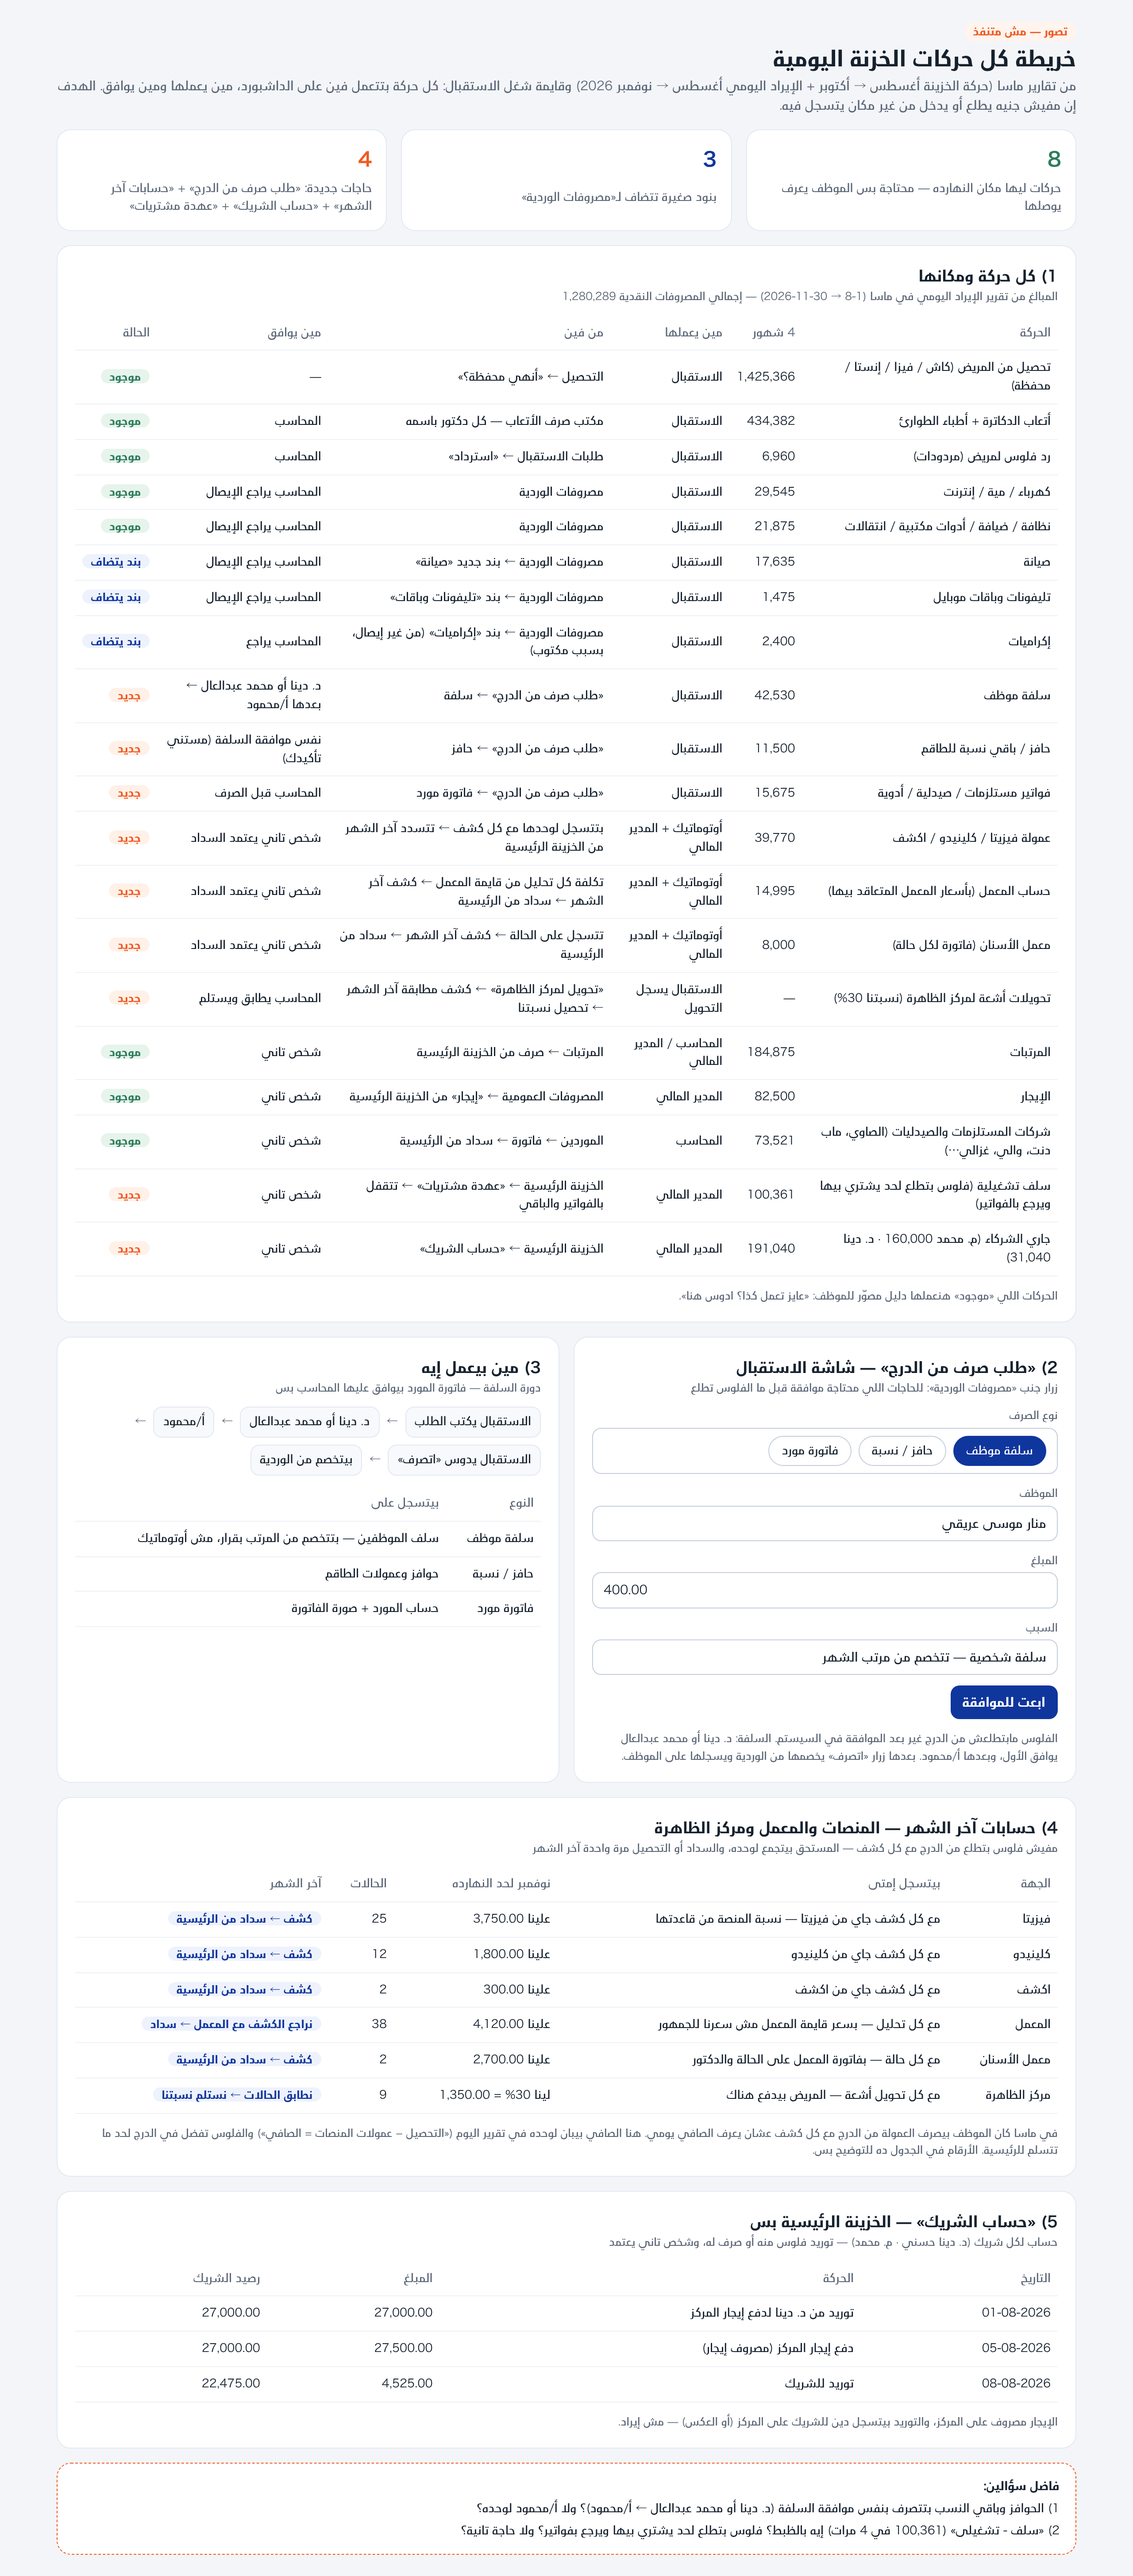
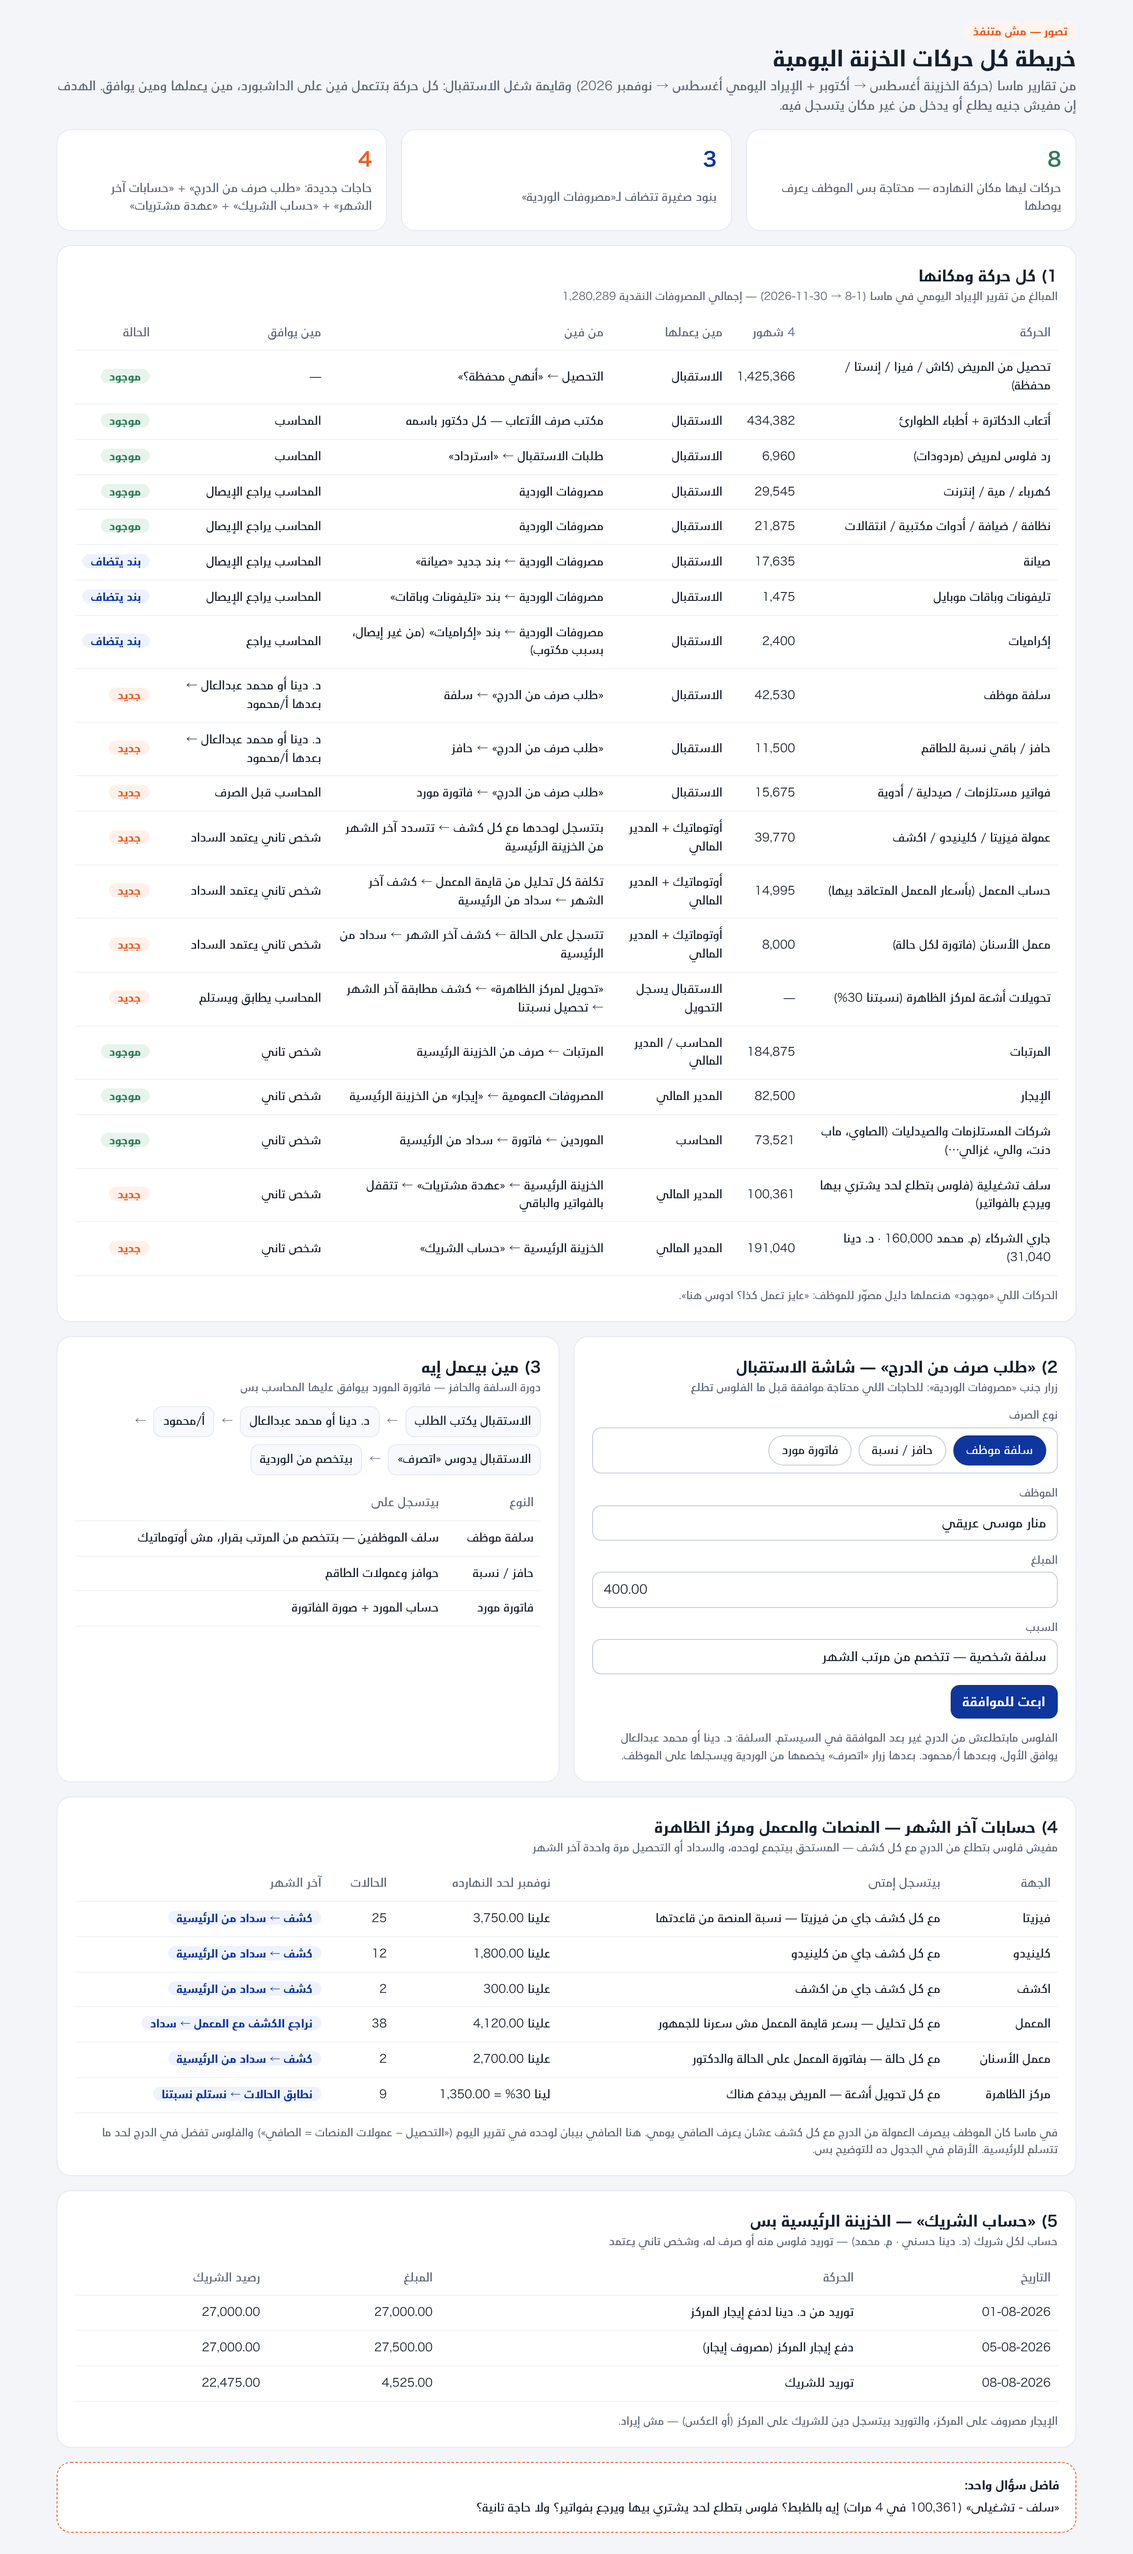
Mockup: incentives follow the advance approval chain (owner)
Claude-Session: https://claude.ai/code/session_01UqVZHWa751JciR5NzZebwW

diff --git a/docs/ui-references/mockups/daily-movements-map.html b/docs/ui-references/mockups/daily-movements-map.html
@@ -50,7 +50,7 @@ table{width:100%;border-collapse:collapse;font-size:13px}th,td{text-align:right;
   <tr><td>تليفونات وباقات موبايل</td><td class="num">1,475</td><td>الاستقبال</td><td>مصروفات الوردية ← بند «تليفونات وباقات»</td><td>المحاسب يراجع الإيصال</td><td><span class="st small">بند يتضاف</span></td></tr>
   <tr><td>إكراميات</td><td class="num">2,400</td><td>الاستقبال</td><td>مصروفات الوردية ← بند «إكراميات» (من غير إيصال، بسبب مكتوب)</td><td>المحاسب يراجع</td><td><span class="st small">بند يتضاف</span></td></tr>
   <tr><td>سلفة موظف</td><td class="num">42,530</td><td>الاستقبال</td><td>«طلب صرف من الدرج» ← سلفة</td><td>د. دينا أو محمد عبدالعال ← بعدها أ/محمود</td><td><span class="st new">جديد</span></td></tr>
-  <tr><td>حافز / باقي نسبة للطاقم</td><td class="num">11,500</td><td>الاستقبال</td><td>«طلب صرف من الدرج» ← حافز</td><td>نفس موافقة السلفة (مستني تأكيدك)</td><td><span class="st new">جديد</span></td></tr>
+  <tr><td>حافز / باقي نسبة للطاقم</td><td class="num">11,500</td><td>الاستقبال</td><td>«طلب صرف من الدرج» ← حافز</td><td>د. دينا أو محمد عبدالعال ← بعدها أ/محمود</td><td><span class="st new">جديد</span></td></tr>
   <tr><td>فواتير مستلزمات / صيدلية / أدوية</td><td class="num">15,675</td><td>الاستقبال</td><td>«طلب صرف من الدرج» ← فاتورة مورد</td><td>المحاسب قبل الصرف</td><td><span class="st new">جديد</span></td></tr>
   <tr><td>عمولة فيزيتا / كلينيدو / اكشف</td><td class="num">39,770</td><td>أوتوماتيك + المدير المالي</td><td>بتتسجل لوحدها مع كل كشف ← تتسدد آخر الشهر من الخزينة الرئيسية</td><td>شخص تاني يعتمد السداد</td><td><span class="st new">جديد</span></td></tr>
   <tr><td>حساب المعمل (بأسعار المعمل المتعاقد بيها)</td><td class="num">14,995</td><td>أوتوماتيك + المدير المالي</td><td>تكلفة كل تحليل من قايمة المعمل ← كشف آخر الشهر ← سداد من الرئيسية</td><td>شخص تاني يعتمد السداد</td><td><span class="st new">جديد</span></td></tr>
@@ -76,7 +76,7 @@ table{width:100%;border-collapse:collapse;font-size:13px}th,td{text-align:right;
  <p class="note">الفلوس مابتطلعش من الدرج غير بعد الموافقة في السيستم. السلفة: د. دينا أو محمد عبدالعال يوافق الأول، وبعدها أ/محمود. بعدها زرار «اتصرف» يخصمها من الوردية ويسجلها على الموظف.</p>
 </section>
 <section class="card">
- <h2>3) مين بيعمل إيه<small>دورة السلفة — فاتورة المورد بيوافق عليها المحاسب بس</small></h2>
+ <h2>3) مين بيعمل إيه<small>دورة السلفة والحافز — فاتورة المورد بيوافق عليها المحاسب بس</small></h2>
  <div class="flow"><span>الاستقبال يكتب الطلب</span><i>←</i><span>د. دينا أو محمد عبدالعال</span><i>←</i><span>أ/محمود</span><i>←</i><span>الاستقبال يدوس «اتصرف»</span><i>←</i><span>بيتخصم من الوردية</span></div>
  <table><thead><tr><th>النوع</th><th>بيتسجل على</th></tr></thead><tbody>
   <tr><td>سلفة موظف</td><td>سلف الموظفين — بتتخصم من المرتب بقرار، مش أوتوماتيك</td></tr>
@@ -109,5 +109,5 @@ table{width:100%;border-collapse:collapse;font-size:13px}th,td{text-align:right;
  <p class="note">الإيجار مصروف على المركز، والتوريد بيتسجل دين للشريك على المركز (أو العكس) — مش إيراد.</p>
 </section>
 
-<div class="q"><b>فاضل سؤالين:</b><span>1) الحوافز وباقي النسب بتتصرف بنفس موافقة السلفة (د. دينا أو محمد عبدالعال ← أ/محمود)؟ ولا أ/محمود لوحده؟</span><span>2) «سلف - تشغيلى» (100,361 في 4 مرات) إيه بالظبط؟ فلوس بتطلع لحد يشتري بيها ويرجع بفواتير؟ ولا حاجة تانية؟</span></div>
+<div class="q"><b>فاضل سؤال واحد:</b><span>«سلف - تشغيلى» (100,361 في 4 مرات) إيه بالظبط؟ فلوس بتطلع لحد يشتري بيها ويرجع بفواتير؟ ولا حاجة تانية؟</span></div>
 </div></body></html>
